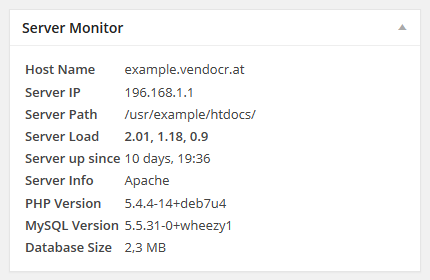
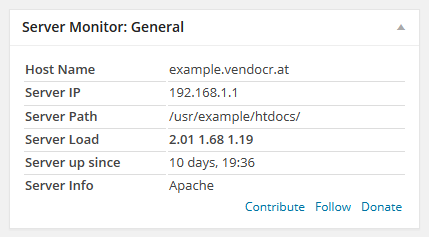
Update to 0.2.1

diff --git a/README.md b/README.md
@@ -1,25 +1,46 @@
-Server Monitor 0.2.0
+Server Monitor 0.2.1
 ====================
 
-Adds a simple widget to your WordPress Dashboard displaying fundamental info about your server and installation.
+Adds three simple widgets to your WordPress Dashboard displaying fundamental info about your server and installation.
 
-![Server Monitor Screenshot](https://github.com/vendocrat/WordPress-Server-Monitor/blob/master/screenshot-1.png)
+![Server Monitor General](https://github.com/vendocrat/WordPress-Server-Monitor/blob/master/screenshot-1.png)
+![Server Monitor PHP & Database](https://github.com/vendocrat/WordPress-Server-Monitor/blob/master/screenshot-2.png)
+![Server Monitor System Status](https://github.com/vendocrat/WordPress-Server-Monitor/blob/master/screenshot-3.png)
 
 ##Description
 
-Our Server Monitor plugin adds a simple widget to your WordPress Dashboard displaying fundamental info about your server.
 
-Displayed Info:
+Our Server Monitor plugin adds thre simple widgets to your WordPress Dashboard displaying general info about your server, PHP, your database and your WordPress installation.
 
+We've kept the plugin as simple as possible and therefore made no settings available. But, as not all of you may need all of the information made available via this handy plugin, we've splitted it into three widgets. And as you know, you can simply hide them from the Options tab in your WordPress dashboard! Just click "Options" on the top right corner of your browser window and untick the widgets you don't need.
+
+Oh, and for the speed junkies (like us), all data will be stored and served via a transient. This way the plugin will have no impact on your dashboard loading time!
+
+Widget #1 **General**
 *   Host Name
 *   Server IP
 *   Server Path
 *   Server Load
 *   Uptime
-*   Server Software
+*   Server Info (Software)
+
+Widget #2 **PHP & Database**
 *   PHP Version
+*   PHP Post Max Size
+*   PHP Time Limit
+*   PHP Max Input Vars
 *   MySQL Version
 *   Database Size
+
+Widget #3 **System Status**
+*   WordPress Version
+*   Multisite?
+*   Active Plugins
+*   Memory Limit
+*   Max Upload Size
+*   Debug Mode
+*   Language
+*   Timezone
 
 **Contributions**
 
@@ -34,7 +55,10 @@ Translations included:
 *   Italian
 *   Greek (thanks to [Anestis Samourkasidis](https://wordpress.org/support/profile/samourkasidis))
 
-Please contact us via [Twitter](https://twitter.com/vendocrat) or hit us on [GitHub](https://github.com/vendocrat/), if you have a translation you want to contribute!
+All our plugins are fully localized/translateable by default and include a .pot-file! Please contact us via [Twitter](https://twitter.com/vendocrat) or hit us on [GitHub](https://github.com/vendocrat/WordPress-Server-Monitor), if you have a translation you want to contribute!
+
+##Installation
+See "readme.txt".
 
 ##Changelog
 See "readme.txt".
